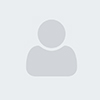
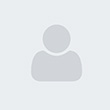
Починил восстановление пароля Оптимизировал загрузку аватарки (< 20 KB) Оптимизировал затемнение фона Исправил положение иконок

diff --git a/scriptes/encrypt.js b/scriptes/encrypt.js
@@ -36,7 +36,7 @@ function pack_psw(psw, salt) {
     return  forge.util.encode64(encrypted);
 }
 
-function reduceFileSize(file, callback) {
+function reduceFileSize(file, size, callback) {
 
     function getExifOrientation(file, callback) {
         if (file.slice) {
@@ -81,8 +81,7 @@ function reduceFileSize(file, callback) {
 
     function imgToCanvasWithOrientation(img, rawWidth, rawHeight, orientation, x, y) {
         var canvas = document.createElement('canvas');
-        canvas.width = 110;
-        canvas.height = 110;
+        canvas.width = canvas.height = size;
         var ctx = canvas.getContext('2d');
         switch (orientation) {
             case 2: ctx.transform(-1, 0, 0, 1, rawWidth, 0); break;
@@ -111,13 +110,13 @@ function reduceFileSize(file, callback) {
         getExifOrientation(file, function(orientation) {
             let w = img.width, h = img.height;
             let scale = (orientation > 4 ?
-                Math.min(110 / w, Infinity / h, 1) :
-                Math.min(Infinity / w, 110 / h, 1));
+                Math.min(size / w, Infinity / h, 1) :
+                Math.min(Infinity / w, size / h, 1));
             h = Math.round(h * scale);
             w = Math.round(w * scale);
             let shiftY = 0, shiftX = 0;
-            if (w < h) {shiftY = -((h - 110) / 2)}
-            else {shiftX = -((w - 110) / 2)}
+            if (w < h) {shiftY = -((h - size) / 2)}
+            else {shiftX = -((w - size) / 2)}
             imgToCanvasWithOrientation(img, w, h, orientation, shiftX, shiftY).toBlob(function(blob) {
                 callback(blob);
             }, 'image/jpeg', 1);

diff --git a/styles/profile.css b/styles/profile.css
@@ -81,7 +81,7 @@ aside {
     width: 43px;
     height: 43px;
     top: 5px;
-    left: 29px;
+    left: 30px;
 }
 
 #avatar hr {
@@ -96,7 +96,7 @@ aside {
     width: 31px;
     height: 31px;
     bottom: 10px;
-    left: 35px;
+    left: 37px;
 }
 
 #avatar::before {
@@ -118,8 +118,8 @@ aside {
 #avatar.none #change_avatar {
     width: 55px;
     height: 55px;
-    top: 21px;
-    left: 21px;
+    top: 23px;
+    left: 23px;
 }
 
 #avatar.none hr, #avatar.none #remove_avatar {opacity: 0; pointer-events: none}

diff --git a/scriptes/profile.js b/scriptes/profile.js
@@ -163,7 +163,7 @@ function onchange_get_file(file) {
     if (file) {
         let size = ((file.size) / 1024 / 1024).toFixed(1);
         if (size <= 30) {
-            reduceFileSize(file, function (blob) {
+            reduceFileSize(file, 110, function (blob) {
                 let img = new FormData();
                 img.set('img', blob, `${user_data.email}.jpg`);
                 send_image(img, function () {
